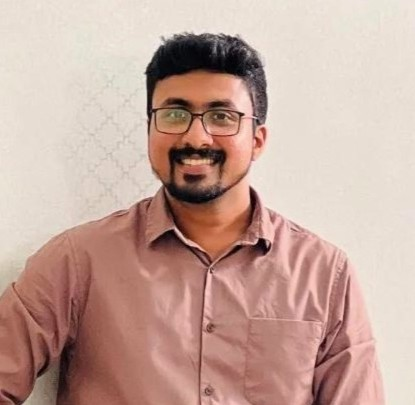
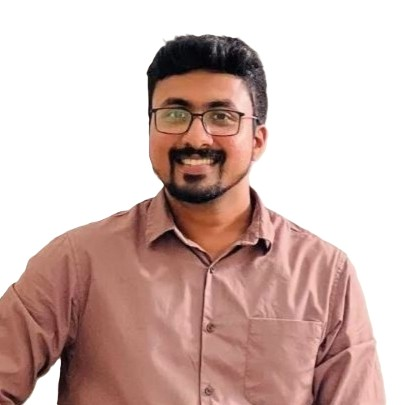
doctors added and images updated

diff --git a/index.html b/index.html
@@ -360,7 +360,7 @@ Come experience expert dental care that puts your needs first—because at Best 
               <div class="doctor-card">
 
                 <div class="card-banner img-holder" style="--width: 460; --height: 500;">
-                  <img src="./assets/images/doctor-1.png" width="460" height="500" loading="lazy" alt="Howard Holmes"
+                  <img src="./assets/images/dr rameez.jpg" width="460" height="500" loading="lazy" alt="Howard Holmes"
                     class="img-cover">
                 </div>
                 
@@ -388,7 +388,7 @@ Come experience expert dental care that puts your needs first—because at Best 
               <div class="doctor-card">
 
                 <div class="card-banner img-holder" style="--width: 460; --height: 500;">
-                  <img src="./assets/images/doctor-2.png" width="460" height="500" loading="lazy" alt="Ella Thompson"
+                  <img src="./assets/images/dr sam.png" width="460" height="500" loading="lazy" alt="Ella Thompson"
                     class="img-cover">
                 </div>
 
@@ -502,7 +502,7 @@ Come experience expert dental care that puts your needs first—because at Best 
               <div class="doctor-card">
 
                 <div class="card-banner img-holder" style="--width: 460; --height: 500;">
-                  <img src="./assets/images/doctor-4.png" width="460" height="500" loading="lazy" alt="Danielle Bryant"
+                  <img src="https://ahchospital.org/images/avatar-female.jpg" width="460" height="500" loading="lazy" alt="Danielle Bryant"
                     class="img-cover">
                 </div>
 
@@ -635,7 +635,7 @@ Come experience expert dental care that puts your needs first—because at Best 
           <h2 class="h2 section-title text-center">Our Happy Smiles</h2>
 
           <div class='sk-ww-google-reviews' data-embed-id='25566180'></div><script src='https://widgets.sociablekit.com/google-reviews/widget.js' defer></script>
-          
+          <div class='sk-instagram-feed' data-embed-id='25574935'></div><script src='https://widgets.sociablekit.com/instagram-feed/widget.js' defer></script>
           <div class="map-container">
             <div class="map-wrapper">
               <iframe src="https://www.google.com/maps/embed?pb=!1m18!1m12!1m3!1d3888.4934805050734!2d80.25204517515265!3d12.940243515564822!2m3!1f0!2f0!3f0!3m2!1i1024!2i768!4f13.1!3m3!1m2!1s0x3a525d4c236c91ad%3A0xfabe8a4058747db7!2sBEST%20DENTAL%20SOLUTIONS%20%7Cby%20Dr.%20Rameezuddin.T%20and%20Dr.Samiunnisa%20begum.S!5e0!3m2!1sen!2sin!4v1727258058591!5m2!1sen!2sin" 

diff --git a/assets/css/style.css b/assets/css/style.css
@@ -678,6 +678,7 @@ body {
   overflow: hidden;
   margin-block-end: 25px;
   position: relative;
+  background-color: var(--white); /* Ensure white background for all doctor images */
 }
 
 .doctor-card .card-banner::after {
@@ -698,10 +699,7 @@ body {
 
 .doctor-card .card-banner img {
   transition: all 0.3s ease;
-}
-
-.doctor-card:hover .card-banner img {
-  transform: scale(1.05);
+  background-color: var(--white); /* Additional white background for images */
 }
 
 .doctor-card .card-title {
